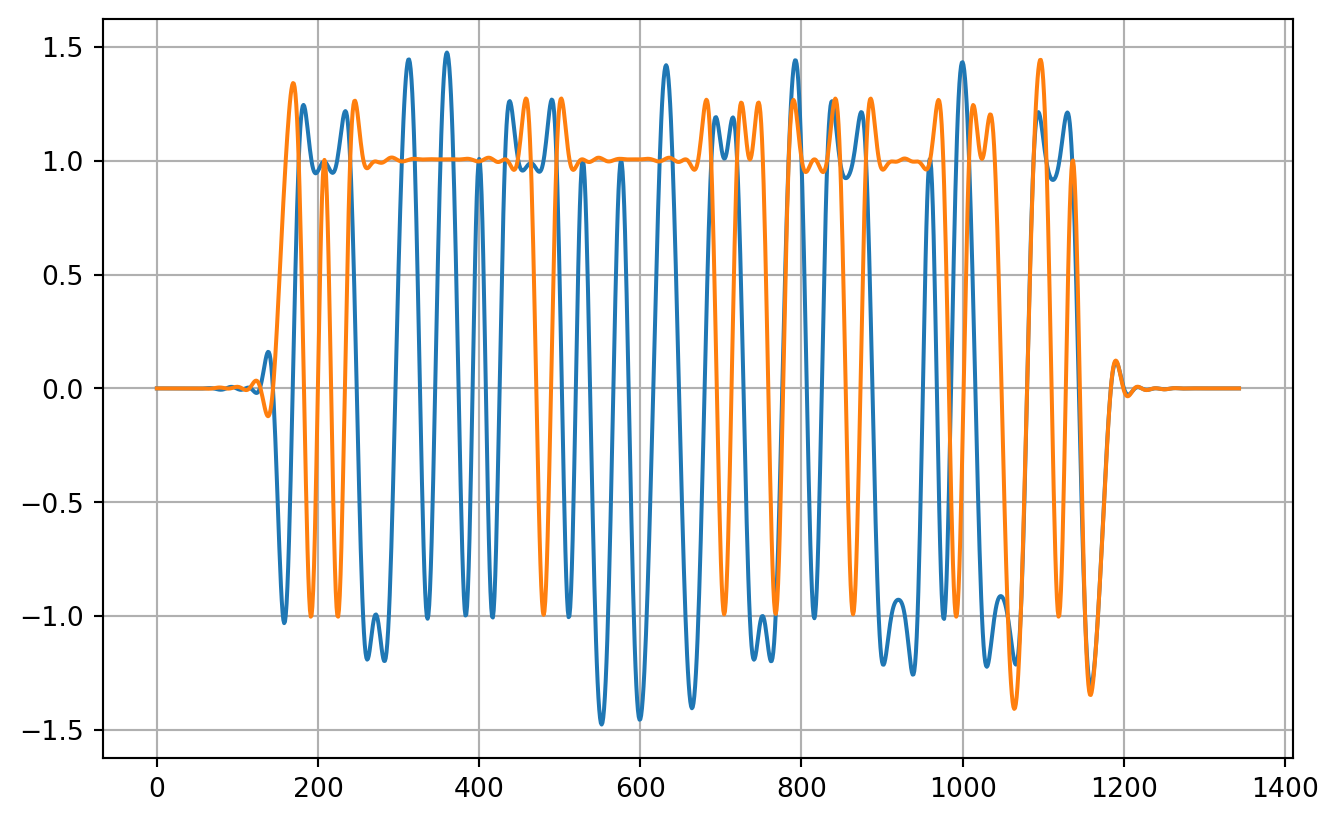
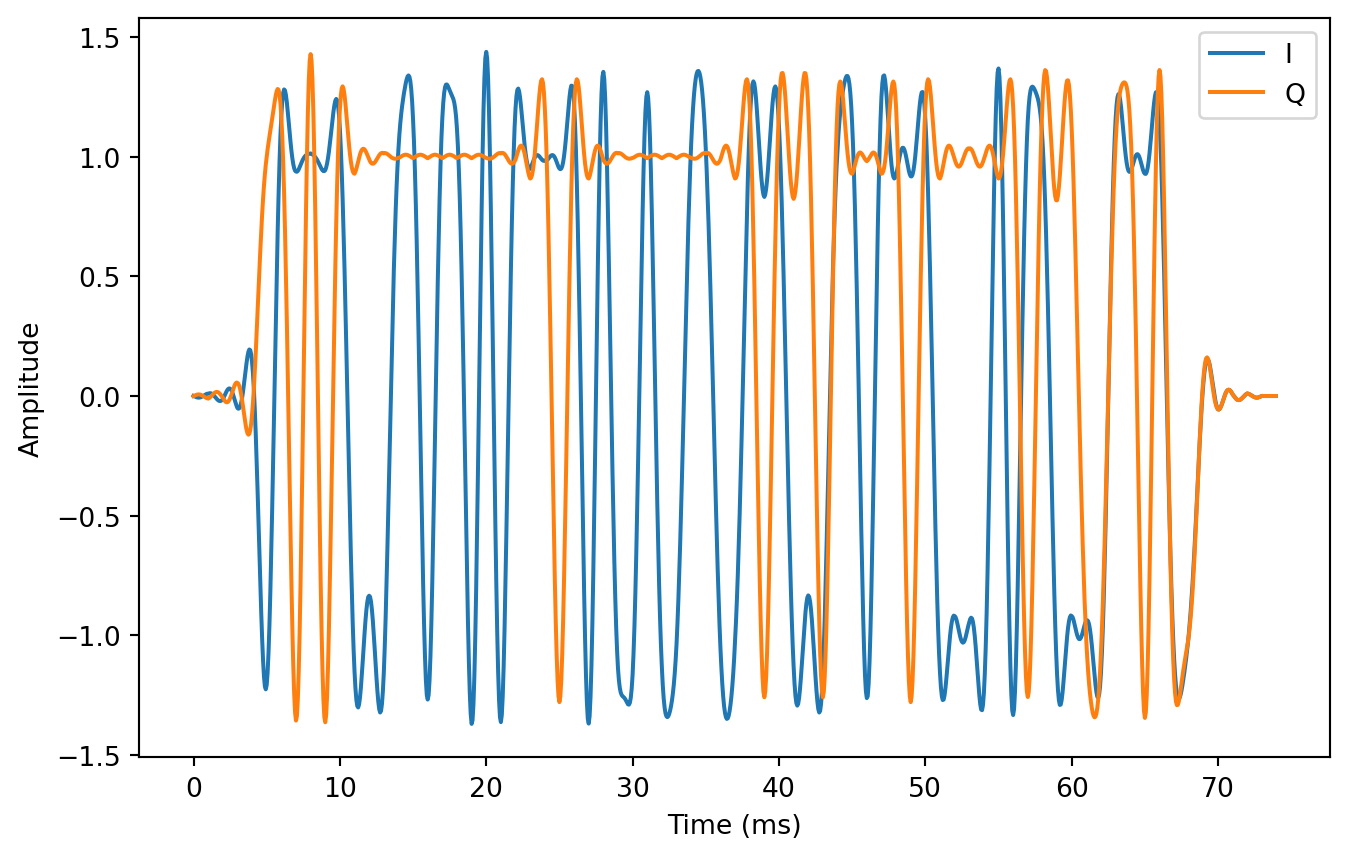
jrr

Changed region(s): [[0.0, 0.0, 1.0, 0.9732], [0.9193, 0.9428, 0.9806, 0.9732]]

diff --git a/content/posts/how-to-build-qpsk-modulator/index.md b/content/posts/how-to-build-qpsk-modulator/index.md
@@ -62,13 +62,21 @@ Before we get started on the modulator, I want to comment on my programming styl
 
 ## My Preferred Toolchain
 
-Python is my preferred language for writing modem simulations. It's simple, has decent performance as long as you use the right libraries, and doesn't require a lot of ceremony. You can just open up a text file and hack away. Unlike some numerical-focused scripting languages I've used (Matlab and Julia), efficient arrays aren't built into the language. They need to be accessed through third-party, open source, packages. This leads to some clunky syntax, but you get used to it. In my opinion, the benefits of using Python outweigh annoying syntax.
+Python is my preferred language for writing modem simulations. It's simple, has decent performance as long as you use the right libraries, and doesn't require a lot of ceremony. You can just open up a text file and hack away.
+
+Unlike some numerical-focused scripting languages I've used (Matlab and Julia), efficient arrays aren't built into the language. They need to be accessed through third-party, open source, packages. This leads to some clunky syntax, but you get used to it. In my opinion, the benefits of using Python outweigh the annoying syntax.
 
 ## Modulator Simulation
 
 @TODO: Add diagram with large workflow, channel encoding, preamble, etc.
 
-The two packages you absolutely need to write effective simulations in Python are `numpy` (for efficient arrays and math), and `matplotlib` (for plotting). Eventually, we'll also want to use import `scipy`. To kick things off, let's import them.
+The three packages I rely on to write effective simulations in Python are
+
+1.  `numpy` for efficient arrays and math,
+2.  `matplotlib` for plotting
+3.  `scipy` for filter design
+
+For this first post we can get away without using `scipy`. To kick things off, let's import the packages:
 
 ``` python
 import numpy as np 
@@ -90,7 +98,7 @@ payload = [
 
 #### Bytes to Bits
 
-Now that we have the payload, we can start progressively moving toward getting symbols. First, we need to convert the byte array to a bit array. This boils down to extracting the 8 bits from each byte, and concatenating them all together. There are several ways to implement this in Python. Here's the version that most closely follows what you might do in a language like C.
+Now that we have the payload, we can start progressively moving toward building the symbols. First, we need to convert the byte array to a bit array. This boils down to extracting the 8 bits from each byte, and concatenating them all together. There are several ways to implement this in Python. Here's the version that most closely follows what you might do in a language like C.
 
 ``` python
 num_chars = len(payload)
@@ -122,14 +130,11 @@ q_symbols = 2 * q_bits - 1
 iq_symbols = i_symbols + 1j * q_symbols
 ```
 
-### Pulse Shaping
+### Pulse Shaping Filter
 
-Now that we've converted the payload to an array of symbols, it's time to start
-building the baseband waveform. First thing we need to do is select a suitable pulse-shaping filter. A pulse shaping filter is a type of digital interpolation filter with properties you can tune in order to hit your bandwidth goals.
+Now that we've converted the payload to an array of symbols, it's time to start building the baseband waveform. First thing we need to do is select a suitable pulse-shaping filter. A pulse shaping filter is a type of digital interpolation filter with properties you can tune in order to hit your bandwidth goals.
 
-The first pulse-shaping filter I ever learned about was the root-raised cosine filter.
-
-Here's a hand-rolled implementation (I really don't like looking at this function. There's probably a more elegant way to implement it, but it does work. ):
+The first pulse-shaping filter I ever learned about was the root-raised cosine filter. Here's a hand-rolled implementation (I really don't like looking at this function. There's probably a more elegant way to implement it, but it does work. ):
 
 ``` python
 def root_raised_cosine(
@@ -180,7 +185,7 @@ Here's how we create the shaping filter for this scenario:
 shaping_filter = root_raised_cosine(rate_o=16, rate_i=1, beta=0.5, delay=5)
 ```
 
-and here's what the filter looks like as a function of symbol period. This is also called the filter's **impulse response**. There are 10 symbol periods because `delay` is set to 5. If `delay` was set to 23, we'd occupy 46 symbol periods.
+and here's what the filter looks like as a function of symbol period. This is also called the filter's **impulse response**. There are 10 symbol periods because `delay` is set to 5. If `delay` was set to 23, it would span 46 symbol periods.
 
 ``` python
 plt.figure(1)
@@ -195,47 +200,107 @@ plt.grid()
 
 <img src="index_files/figure-markdown_strict/cell-9-output-1.png" width="679" height="434" />
 
-In case you like formulas, here's the rule governing the number of samples in the root-raised cosine filter:  
+In case you like formulas, here's the rule governing the number of samples in the root-raised cosine filter:
+
 $$
 \text{number coefficients } = 1 + \frac{\text{ rate_o }}{\text{ rate_i }} \times \text{ delay } 
 $$
 
-``` python
-f = np.convolve(shaping_filter, shaping_filter)/np.sum(shaping_filter*shaping_filter)
-f = f[80:-80]
-plt.figure(1)
-inds = np.linspace(-5, +5, len(shaping_filter))
-plt.plot(inds, f)
-plt.xlim([-5, 5])
-plt.xticks(np.arange(-5, +6))
-plt.grid()
-```
-
-<img src="index_files/figure-markdown_strict/cell-10-output-1.png" width="649" height="411" />
+$$ 
+\frac{\text{samples}}{\text{second}} = \frac{\text{samples}}{\text{symbol}} \times \frac{\text{symbols}}{\text{second}}
+$$
 
 ``` python
-baseband_samples = np.convolve(shaping_filter, iq_symbols)
+samples_per_symbol = 16
+symbols_per_second = 1000
+samples_per_second = samples_per_symbol * symbols_per_second
 ```
 
-$$
-\text{output bandwidth in Hz} = (1 + \text{ beta} ) \times \frac{\text{rate_o}}{\text{rate_i}}
-$$
+### Interpolation Process
 
-It's not perfect, but it will get the job done for now. In the future we might get into the nitty-gritty details about why it aisn't that great and what some of the alternative options are. If you want to ge
+The next step in the process is to interpolate the symbols with the filter. There's an inefficient, easy way, to do this and an efficient, more complex way to do this. Let's start with the easy way.
 
-1.  How rapidly do we need to communicate?
-2.  What carrier frequency should we use?
-3.  How rapidly are we sending digital samples to the D/A converter?
+#### The easy way
 
-The answer to these two questions have a huge impact on the complexity of your modem. We need to walk before we can run, so let's keep it simple. We're going to assume that out D/A converter is expecting digital samples at a rate of 16 thousand samples per second (aka 16kHz) and we need to communicate at a rate of 1000 symbols per second. If you do the division, this means that the baseband waveform will have
+For the easy method, all we do is upsample the symbols by a factor of 16 and apply the filter.
 
-$$
-    \frac{16000\text{ samples/sec }}{1000 \text{ symbols/sec }} = 16\text{ samples/symbol }
-$$
+``` python
+num_symbols = len(iq_symbols)
+iq_symbols_upsampled = np.zeros(num_symbols * 16, dtype=complex)
+iq_symbols_upsampled[::16] = iq_symbols
 
-As the first line in the function body suggests, the ratio of the output and input sample rates gives you the number of
+baseband_waveform = np.convolve(iq_symbols_upsampled, shaping_filter)
+```
 
-### Validate the Baseband Modulator
+And here's the what the in-phase (blue) and quadrature (orange) waveforms look like:
+
+``` python
+num_baseband_samples = len(baseband_waveform)
+t_ms = 1000*np.arange(num_baseband_samples) / samples_per_second
+plt.plot(t_ms, np.real(baseband_waveform), label="I")
+plt.plot(t_ms, np.imag(baseband_waveform), label="Q")
+plt.xlabel("Time (ms)")
+plt.ylabel("Amplitude")
+plt.legend()
+```
+
+<img src="index_files/figure-markdown_strict/cell-12-output-1.png" width="675" height="429" />
+
+Can you spot why this is inefficient? Yep, it's related to the upsampling step. Upsampling distributes the samples over a large array full of zeros. Unfortunately, the convolution function doesn't know anything about this. It's going to do what it normally does (which is multiply and accumulate), even if most of the entries are 0. This is a huge waste of time and energy. If we know for a fact that an element in an array is 0, we should just skip over it.
+
+#### The hard way
+
+This brings us to the harder, but more efficient way of doing this using *multirate signal processing*. There's no way I can explain everything you need to know about multirate signal processing here. What I can do is try to give you the big picture, with some code that demonstrates the process.
+
+The selling point of multirate signal processing is that computational efficiency can be improved by restructuring and rearranging the original task. To improve the efficieny of the pulse shaping task, we need to transform the root-raised cosine filter into a two-dimensional filter bank
+
+``` python
+filter_bank = np.reshape(
+    np.concatenate((shaping_filter, np.zeros(15))),
+    (16, 11),
+    order="F"        
+)
+```
+
+and apply the filter with a from-scratch convolution process that uses a single shift register. Don't worry about the details for now. The key takeaway is that for every input symbol, we get 16 output samples. And we didn't have to upsample the symbol array.
+
+``` python
+iq_symbols_1 = np.concatenate((iq_symbols, np.zeros(16)))
+buffer = np.zeros(11, dtype=complex)
+baseband_samples_fb = np.zeros(len(iq_symbols_1) * 16, dtype=complex)
+k = 0
+for i in range(len(iq_symbols_1)):
+    buffer[10] = buffer[9]
+    buffer[ 9] = buffer[8]
+    buffer[ 8] = buffer[7]
+    buffer[ 7] = buffer[6]
+    buffer[ 6] = buffer[5]
+    buffer[ 5] = buffer[4]
+    buffer[ 4] = buffer[3]
+    buffer[ 3] = buffer[2]
+    buffer[ 2] = buffer[1]
+    buffer[ 1] = buffer[0]
+    buffer[ 0] = iq_symbols_1[i]
+
+    for index in range(16):
+        baseband_samples_fb[k+index] = np.sum(buffer * filter_bank[index,:])
+
+    k += 16
+```
+
+``` python
+num_baseband_samples_fb = len(baseband_samples_fb)
+t_ms = 1000*np.arange(num_baseband_samples_fb) / samples_per_second
+plt.plot(t_ms, np.real(baseband_samples_fb), label="I")
+plt.plot(t_ms, np.imag(baseband_samples_fb), label="Q")
+plt.xlabel("Time (ms)")
+plt.ylabel("Amplitude")
+plt.legend()
+```
+
+<img src="index_files/figure-markdown_strict/cell-15-output-1.png" width="675" height="429" />
+
+### Validate the Basband Waveform
 
 ``` python
 iq_symbols_1 = np.zeros(16 * len(iq_symbols), dtype=complex)
@@ -269,7 +334,7 @@ plt.plot(np.imag(x1))
 plt.grid()
 ```
 
-<img src="index_files/figure-markdown_strict/cell-16-output-1.png" width="669" height="411" />
+<img src="index_files/figure-markdown_strict/cell-20-output-1.png" width="669" height="411" />
 
 A constellation is just a scatter plot of the complex symbols. The in-phase part of each symbol goes on the horizontal axis and the quadrature-part goes on the vertical axis.
 
@@ -287,7 +352,7 @@ plt.ylim([-1.5, +1.5])
 plt.grid()
 ```
 
-<img src="index_files/figure-markdown_strict/cell-17-output-1.png" width="667" height="416" />
+<img src="index_files/figure-markdown_strict/cell-21-output-1.png" width="667" height="416" />
 
 The constellation diagram for the ideal symbols, is extremely boring. It's extremely useful for receiver development though. When noise starts getting added to the signals, the small green circles get larger and more diffuse.
 
